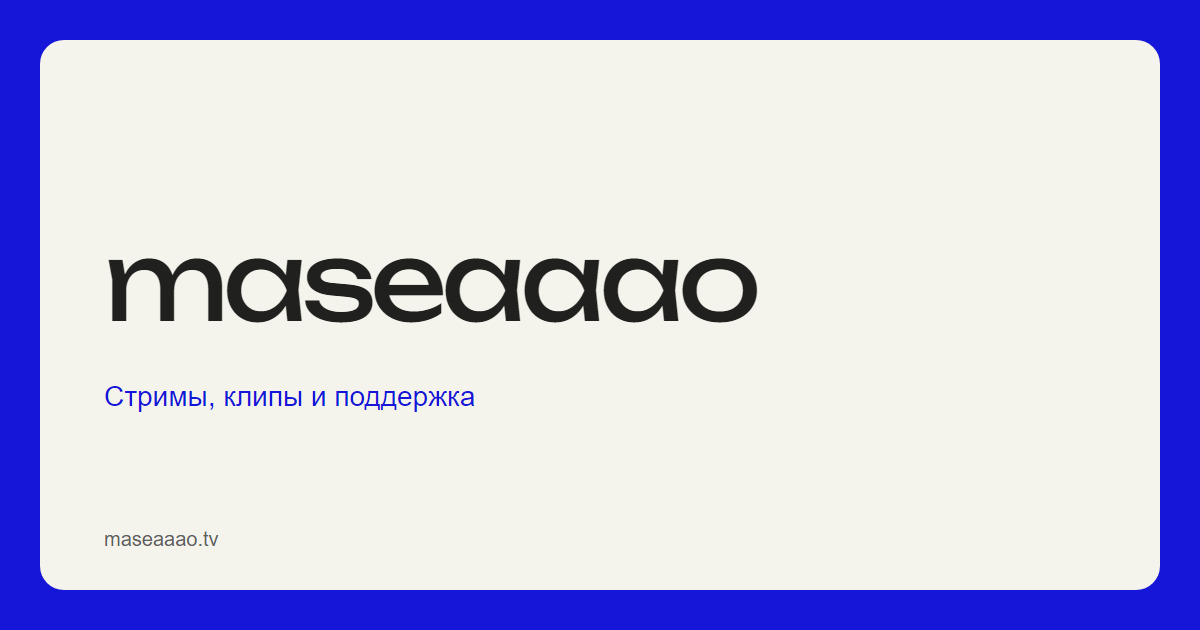
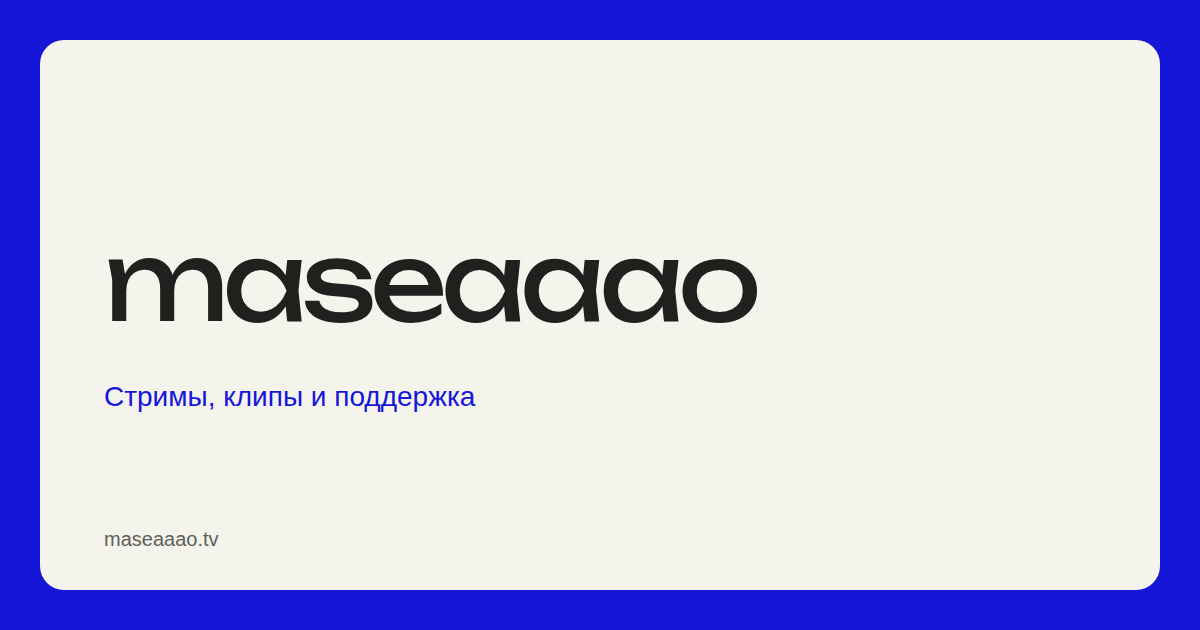
refactor: accept the Linux raster baseline and publish hidden paths
The raster baseline is now rendered by the Linux runner, so the committed
artifacts are re-rendered on Linux. The old hashed bundles are no longer
produced by the build and are removed.

The acceptance tool distinguishes two kinds of absence: a file the canonical
runner reports as missing is dropped from the tree, while a file the artifact
bundle failed to carry stops the acceptance, because dropping it silently would
weaken the byte comparison.

The published baseline now includes the product outputs, the logo renders and
the hidden .well-known directory, so the whole tracked set can be reviewed.

diff --git a/dist/bundles/site-BxtoZOBp.css b/dist/bundles/site-BxtoZOBp.css
@@ -1,0 +1,1 @@
+@font-face{font-family:Unbounded;src:url(/bundles/unbounded-400-CBiYffpS.woff2) format("woff2");font-weight:400;font-style:normal;font-display:swap}:root{color-scheme:light;--color-brand: #1616d9;--color-canvas: var(--color-brand);--color-surface: #f4f3ec;--color-field: #fffef8;--color-text: #20201e;--color-muted: #60605a;--color-border: #d2d1c9;--color-border-control: #83837b;--color-focus: var(--color-brand);--color-action-hover: #1010a9;--color-success: #176548;--color-danger: #a42a36;--color-warning: #815005;--color-accent-soft: #e8e8fc;--space-1: .25rem;--space-2: .5rem;--space-3: .75rem;--space-4: 1rem;--space-5: 1.25rem;--space-6: 1.5rem;--space-8: 2rem;--space-10: 2.5rem;--space-12: 3rem;--space-16: 4rem;--radius-tag: .375rem;--radius-field: .75rem;--radius-surface: 1.5rem;--control-height: 2.75rem;--font-display: "Unbounded", Arial, sans-serif;--font-body: Arial, sans-serif;--motion-press: 90ms;--motion-feedback: .16s;--motion-enter: .24s;--motion-exit: .14s;--motion-scene: .36s;--motion-ease-enter: cubic-bezier(.22, 1, .36, 1);--motion-ease-exit: cubic-bezier(.4, 0, 1, 1);--motion-ease-state: cubic-bezier(.2, 0, 0, 1)}.sr-only{position:absolute;width:1px;height:1px;padding:0;margin:-1px;overflow:hidden;clip-path:inset(50%);white-space:nowrap;border:0}[hidden]{display:none!important}*{box-sizing:border-box}html{min-height:100%}body{margin:0;color:var(--color-text);background:var(--color-canvas);font:16px/1.5 var(--font-body);-webkit-font-smoothing:antialiased;font-synthesis:none}h1,h2,h3{font-family:var(--font-display);font-weight:400}a,button{touch-action:manipulation}a{color:var(--color-brand);text-underline-offset:.2em}a:focus-visible,button:focus-visible,[tabindex="-1"]:focus-visible{outline:3px solid var(--color-brand);outline-offset:4px}.page{min-height:100svh;padding:56px 32px;display:grid;place-items:start center}.shell{width:min(1040px,100%);min-width:0;padding:48px;border-radius:24px;background:var(--color-surface);display:grid;grid-template-columns:minmax(0,1fr);grid-template-areas:"identity" "actions" "collab";gap:32px 40px;align-items:start}.identity{grid-area:identity}.identity__top{display:flex;align-items:center;flex-direction:row-reverse;justify-content:space-between;gap:24px;width:100%}.avatar-shell{display:grid;justify-items:center;flex:none}.avatar-frame{position:relative;width:88px;height:88px;border-radius:50%;background:var(--color-text);overflow:hidden}.avatar,.avatar-fallback{display:block;width:100%;height:100%;object-fit:cover}.avatar{position:relative;z-index:1}.avatar-fallback{position:absolute;inset:0;display:grid;place-items:center;color:var(--color-surface);font:400 40px var(--font-display)}.identity__copy{min-width:0}.identity h1{margin:0;font-size:clamp(32px,6vw,72px);line-height:1.1;letter-spacing:-.055em;overflow-wrap:anywhere}.actions{grid-area:actions;display:grid;grid-template-columns:minmax(0,1fr);min-width:0;gap:28px 40px;align-items:start}.section{min-width:0;display:grid;gap:12px}.collab__label{margin:0;color:var(--color-text);font:400 18px/1.4 var(--font-display);overflow-wrap:anywhere}.tiles{display:grid;gap:10px}.tiles--primary{grid-template-columns:minmax(0,1.4fr) minmax(0,1fr);grid-auto-rows:1fr;gap:var(--space-4)}.tile{min-width:0;min-height:76px;display:grid;grid-template-columns:minmax(0,1fr);align-items:center;gap:16px;padding:18px 20px;border:1px solid var(--color-border);border-radius:12px;color:var(--color-text);background:transparent;text-decoration:none;transition:color var(--motion-feedback),background-color var(--motion-feedback),border-color var(--motion-feedback),transform var(--motion-enter) var(--motion-ease-enter)}.tile__title{font:400 20px/1.35 var(--font-display);overflow-wrap:anywhere}.tile--twitch{min-height:80px;background:var(--color-brand);color:var(--color-surface);border-color:var(--color-brand)}.tile--donationalerts{border-color:var(--color-border-control)}.tiles--secondary{grid-template-columns:repeat(3,minmax(0,1fr));gap:12px}.tiles--secondary .tile{min-height:56px;padding:14px 16px;border-radius:8px}.tiles--secondary .tile__title{font:15px/1.5 var(--font-body)}.collab{grid-area:collab;min-width:0;display:grid;grid-template-columns:minmax(0,1fr);gap:16px;align-items:start;padding-top:28px;border-top:1px solid var(--color-border)}.collab__links{display:grid;grid-template-columns:repeat(2,minmax(0,240px));gap:12px}.collab__link{display:flex;min-width:0;min-height:48px;align-items:center;justify-content:center;padding:12px 16px;border:1px solid var(--color-border-control);border-radius:8px;color:var(--color-text);text-decoration:none;font-size:15px;overflow-wrap:anywhere;transition:color var(--motion-feedback),background-color var(--motion-feedback),border-color var(--motion-feedback),transform var(--motion-enter) var(--motion-ease-enter)}@media(prefers-reduced-motion:no-preference){.shell>.identity,.shell>.actions,.shell>.collab{animation:reading-arrival var(--motion-scene) var(--motion-ease-enter) backwards}.shell>.actions{animation-delay:30ms}.shell>.collab{animation-delay:60ms}.shell:focus-within>*{animation:none}.tile:active,.collab__link:active{transform:translateY(1px);transition-duration:var(--motion-press)}}@keyframes reading-arrival{0%{opacity:.65;transform:translateY(6px)}to{opacity:1;transform:none}}@media(hover:hover){.tile:hover,.collab__link:hover{border-color:var(--color-brand);color:var(--color-brand);background:var(--color-field)}.tile--twitch:hover{background:var(--color-action-hover);border-color:var(--color-brand);color:var(--color-surface)}}.checker{padding:32px;background:var(--color-canvas)}.checker header{display:flex;flex-wrap:wrap;align-items:center;justify-content:space-between;gap:20px;margin-bottom:32px}.checker h1{color:var(--color-surface);margin:0;font-size:clamp(24px,4vw,40px);letter-spacing:-.04em}.checker .global-actions,.checker .actions{display:flex;flex-wrap:wrap;gap:8px}.checker .grid{display:grid;grid-template-columns:repeat(auto-fit,minmax(min(100%,480px),1fr));gap:20px}.checker .card{background:var(--color-surface);min-width:0;overflow:hidden;border:1px solid var(--color-border);border-radius:16px}.checker .card-header{display:flex;flex-wrap:wrap;align-items:center;justify-content:space-between;gap:16px;padding:20px;border-bottom:1px solid var(--color-border)}.checker .title{margin:0;font:400 18px/1.5 var(--font-display)}.checker .status,.checker .note{color:var(--color-muted);font-size:14px}.checker .slot{display:grid;min-height:220px;place-items:center;padding:16px;background:var(--color-field)}.checker .placeholder{color:var(--color-muted);text-align:center}.checker iframe{width:100%;aspect-ratio:16 / 9;display:block;border:0;background:var(--color-text)}.checker.is-tv-mode{height:100dvh;min-height:0;padding:8px;overflow:hidden}.checker.is-tv-mode header,.checker.is-tv-mode .note{display:none}.checker.is-tv-mode .grid{height:calc(100dvh - 16px);grid-template-columns:minmax(0,1fr);grid-template-rows:repeat(2,minmax(0,1fr));gap:8px}.checker.is-tv-mode .card{min-height:0;display:grid;grid-template-rows:auto minmax(0,1fr)}.checker.is-tv-mode .card[data-platform=youtube]{grid-column:1 / -1}.checker.is-tv-mode .card-header{padding:6px 8px}.checker.is-tv-mode .title{font-size:13px}.checker.is-tv-mode .status,.checker.is-tv-mode .actions{display:none}.checker.is-tv-mode .slot{min-height:0;height:100%;padding:4px}.checker.is-tv-mode iframe{height:100%;aspect-ratio:auto}.docs{padding:48px 24px}.docs main{max-width:1040px;margin:0 auto;padding:48px;border-radius:var(--radius-surface);background:var(--color-surface)}.docs h1{font-size:clamp(22px,4vw,36px);line-height:1.4;letter-spacing:-.04em;margin:0 0 16px;overflow-wrap:anywhere}.docs .subtitle{color:var(--color-muted);margin-bottom:40px}.docs section{padding:24px 0;border-top:1px solid var(--color-border)}.docs h2{font-size:17px;margin:0 0 16px}.docs p{margin:0 0 12px;overflow-wrap:anywhere}.docs p:last-child{margin-bottom:0}.docs code{padding:2px 4px;color:var(--color-brand);background:var(--color-accent-soft);font-size:.9em;box-decoration-break:clone}.docs .muted{margin-top:24px;color:var(--color-muted);font-size:14px}.skip-links a{position:fixed;top:12px;left:12px;z-index:10;transform:translateY(-200%);padding:12px 16px;border:2px solid var(--color-brand);border-radius:8px;background:var(--color-surface)}.skip-links a:focus{transform:none}#platform-links,#contacts{scroll-margin-top:24px}@media(width<=1000px){.page{padding:24px 16px}.shell{gap:28px;padding:32px}.actions{grid-template-columns:minmax(0,1fr)}.tiles--secondary{grid-template-columns:repeat(2,minmax(0,1fr))}.collab{grid-template-columns:1fr;gap:16px}.tiles--primary .tile{padding:16px;gap:12px}}@media(width<=540px){.page{padding:12px}.shell{padding:24px 20px;border-radius:18px;gap:24px}.identity__top{flex-direction:column;align-items:start;gap:20px}.avatar-frame{width:64px;height:64px}.identity h1{font-size:clamp(28px,8vw,40px);letter-spacing:-.06em}.tiles--primary{grid-template-columns:1fr}.tile{min-height:72px;padding:16px}.tile__title{font-size:17px}.tiles--secondary .tile__title{font-size:15px}.tiles--secondary .tile--lobby,.tiles--secondary .tile--archives{grid-column:1 / -1}.collab__links{grid-template-columns:1fr;gap:12px}.checker{padding:20px 12px}.checker .card-header{padding:16px}.docs{padding:12px}.docs main{padding:24px 20px;border-radius:18px}}@media(prefers-reduced-motion:reduce){*,*:before,*:after{transition:none!important;animation:none!important;scroll-behavior:auto!important}}@media(forced-colors:active){.tile,.collab__link{border:1px solid ButtonText}a:focus-visible{outline-color:Highlight}}.docs .tool-link{display:inline-flex;align-items:center;min-width:44px;min-height:44px;max-width:100%;overflow-wrap:anywhere}.app-button[data-v-c18e0edb]{display:inline-flex;box-sizing:border-box;cursor:pointer;align-items:center;justify-content:center;gap:var(--space-2);min-height:var(--control-height);min-width:var(--control-height);padding:var(--space-3) var(--space-4);border:1px solid var(--color-border-control);border-radius:var(--radius-field);background:transparent;color:var(--color-text);font:400 16px/1.4 Unbounded,Arial,sans-serif;text-decoration:none;max-width:100%;text-align:center;overflow-wrap:anywhere;transition:color var(--motion-feedback, .16s),background-color var(--motion-feedback, .16s),border-color var(--motion-feedback, .16s),transform var(--motion-enter, .24s) var(--motion-ease-enter, ease-out)}.app-button__label[data-v-c18e0edb]{min-width:0}.app-button--primary[data-v-c18e0edb]{background:var(--color-brand);border-color:var(--color-brand);color:var(--color-surface)}.app-button--icon[data-v-c18e0edb]{padding:0;border-radius:var(--radius-tag)}.app-button--loading[data-v-c18e0edb]{cursor:progress}.app-button[data-v-c18e0edb]:disabled,.app-button[aria-disabled=true][data-v-c18e0edb]{cursor:not-allowed;opacity:.7}@media(hover:hover){.app-button[data-v-c18e0edb]:hover:not(:disabled,[aria-disabled=true]){color:var(--color-brand);border-color:var(--color-brand);background:var(--color-accent-soft)}.app-button--primary[data-v-c18e0edb]:hover:not(:disabled,[aria-disabled=true]){color:var(--color-surface);background:var(--color-action-hover);border-color:var(--color-action-hover)}}.app-button[data-v-c18e0edb]:focus-visible{outline:3px solid var(--color-focus);outline-offset:4px}.app-button--inverted[data-v-c18e0edb]{color:var(--color-surface);border-color:var(--color-surface)}.app-button--inverted[data-v-c18e0edb]:focus-visible{outline-color:var(--color-surface)}.app-button--press[data-v-c18e0edb]:active:not(:disabled,[aria-disabled=true]){transform:translateY(1px);transition-duration:var(--motion-press, 90ms)}@media(prefers-reduced-motion:reduce){.app-button[data-v-c18e0edb]{transition:none}.app-button--press[data-v-c18e0edb]:active:not(:disabled,[aria-disabled=true]){transform:none}}

diff --git a/dist/check.html b/dist/check.html
@@ -9,12 +9,12 @@
     <meta name="theme-color" content="#f4f3ec" />
     <link rel="icon" href="favicon.ico?v=rounded-1" />
 
-    <script type="module" crossorigin src="/bundles/check.html-Difs7IvX.js"></script>
-    <link rel="stylesheet" crossorigin href="/bundles/site-DQN-sndQ.css">
+    <script type="module" crossorigin src="/bundles/check.html-C4sZ6Gpz.js"></script>
+    <link rel="stylesheet" crossorigin href="/bundles/site-BxtoZOBp.css">
     <link rel="preload" href="/bundles/unbounded-400-CBiYffpS.woff2" as="font" type="font/woff2" crossorigin="anonymous">
   </head>
 
   <body class="checker">
-    <!--[--><header><h1>Stream Checker</h1><div class="global-actions"><button class="app-button app-button--secondary app-button--inverted app-button--press" type="button" data-action="add-all" data-v-a1e1d40c><!----><span class="app-button__label" data-v-a1e1d40c><!--[-->Добавить все<!--]--></span></button><button class="app-button app-button--secondary app-button--inverted app-button--press" type="button" data-action="remove-all" data-kind="remove" data-v-a1e1d40c><!----><span class="app-button__label" data-v-a1e1d40c><!--[-->Удалить все<!--]--></span></button></div></header><main class="grid"><section class="card" data-platform="youtube"><div class="card-header"><div><h2 class="title">YouTube</h2><div class="status" role="status" data-status>iframe не создан</div></div><div class="actions"><button class="app-button app-button--secondary app-button--press" type="button" data-action="add" data-v-a1e1d40c><!----><span class="app-button__label" data-v-a1e1d40c><!--[-->Добавить<!--]--></span></button><button class="app-button app-button--secondary app-button--press" type="button" data-action="remove" data-kind="remove" data-v-a1e1d40c><!----><span class="app-button__label" data-v-a1e1d40c><!--[-->Удалить<!--]--></span></button><a class="app-button app-button--secondary app-button--press button" href="https://www.youtube.com/channel/UCyJNPWpOcPfMo5csKa27yGg/live" target="_blank" rel="noreferrer" data-v-a1e1d40c><!----><span class="app-button__label" data-v-a1e1d40c><!--[-->Открыть<!--]--></span></a></div></div><div class="slot" data-slot><div class="placeholder">YouTube-плеер не загружен</div></div></section><section class="card" data-platform="twitch"><div class="card-header"><div><h2 class="title">Twitch</h2><div class="status" role="status" data-status>iframe не создан</div></div><div class="actions"><button class="app-button app-button--secondary app-button--press" type="button" data-action="add" data-v-a1e1d40c><!----><span class="app-button__label" data-v-a1e1d40c><!--[-->Добавить<!--]--></span></button><button class="app-button app-button--secondary app-button--press" type="button" data-action="remove" data-kind="remove" data-v-a1e1d40c><!----><span class="app-button__label" data-v-a1e1d40c><!--[-->Удалить<!--]--></span></button><a class="app-button app-button--secondary app-button--press button" href="https://www.twitch.tv/maseaaao" target="_blank" rel="noreferrer" data-v-a1e1d40c><!----><span class="app-button__label" data-v-a1e1d40c><!--[-->Открыть<!--]--></span></a></div></div><div class="slot" data-slot><div class="placeholder">Twitch-плеер не загружен</div></div></section></main><!--]-->
+    <!--[--><header><h1>Stream Checker</h1><div class="global-actions"><button class="app-button app-button--secondary app-button--inverted app-button--press" type="button" data-action="add-all" data-v-c18e0edb><!----><span class="app-button__label" data-v-c18e0edb><!--[-->Добавить все<!--]--></span></button><button class="app-button app-button--secondary app-button--inverted app-button--press" type="button" data-action="remove-all" data-kind="remove" data-v-c18e0edb><!----><span class="app-button__label" data-v-c18e0edb><!--[-->Удалить все<!--]--></span></button></div></header><main class="grid"><section class="card" data-platform="youtube"><div class="card-header"><div><h2 class="title">YouTube</h2><div class="status" role="status" data-status>iframe не создан</div></div><div class="actions"><button class="app-button app-button--secondary app-button--press" type="button" data-action="add" data-v-c18e0edb><!----><span class="app-button__label" data-v-c18e0edb><!--[-->Добавить<!--]--></span></button><button class="app-button app-button--secondary app-button--press" type="button" data-action="remove" data-kind="remove" data-v-c18e0edb><!----><span class="app-button__label" data-v-c18e0edb><!--[-->Удалить<!--]--></span></button><a class="app-button app-button--secondary app-button--press button" href="https://www.youtube.com/channel/UCyJNPWpOcPfMo5csKa27yGg/live" target="_blank" rel="noreferrer" data-v-c18e0edb><!----><span class="app-button__label" data-v-c18e0edb><!--[-->Открыть<!--]--></span></a></div></div><div class="slot" data-slot><div class="placeholder">YouTube-плеер не загружен</div></div></section><section class="card" data-platform="twitch"><div class="card-header"><div><h2 class="title">Twitch</h2><div class="status" role="status" data-status>iframe не создан</div></div><div class="actions"><button class="app-button app-button--secondary app-button--press" type="button" data-action="add" data-v-c18e0edb><!----><span class="app-button__label" data-v-c18e0edb><!--[-->Добавить<!--]--></span></button><button class="app-button app-button--secondary app-button--press" type="button" data-action="remove" data-kind="remove" data-v-c18e0edb><!----><span class="app-button__label" data-v-c18e0edb><!--[-->Удалить<!--]--></span></button><a class="app-button app-button--secondary app-button--press button" href="https://www.twitch.tv/maseaaao" target="_blank" rel="noreferrer" data-v-c18e0edb><!----><span class="app-button__label" data-v-c18e0edb><!--[-->Открыть<!--]--></span></a></div></div><div class="slot" data-slot><div class="placeholder">Twitch-плеер не загружен</div></div></section></main><!--]-->
   </body>
 </html>

diff --git a/dist/tools/index.html b/dist/tools/index.html
@@ -6,7 +6,7 @@
       content="width=device-width,initial-scale=1"
     /><meta name="color-scheme" content="light" /><title>Инструменты — maseaaao.tv</title
     ><link rel="canonical" href="https://maseaaao.tv/tools/index.html" /></head
-  ><link rel="stylesheet" crossorigin href="/bundles/site-DQN-sndQ.css">
+  ><link rel="stylesheet" crossorigin href="/bundles/site-BxtoZOBp.css">
 
 <link rel="preload" href="/bundles/unbounded-400-CBiYffpS.woff2" as="font" type="font/woff2" crossorigin="anonymous">
 

diff --git a/apps/obs-widgets/dist/streamlabs-chat/chat-box.css b/apps/obs-widgets/dist/streamlabs-chat/chat-box.css
@@ -108,9 +108,11 @@ OTHER DEALINGS IN THE FONT SOFTWARE.
   --color-text: #20201e;
   --color-muted: #60605a;
   --color-border: #d2d1c9;
+
   /* Purpose, not platform imitation: immediate response, quiet settling. */
   --motion-ease-enter: cubic-bezier(0.22, 1, 0.36, 1);
 }
+
 /* Streamlabs owns message delivery, deletion and the configured hide delay.
    Keep {font_size} / {message_hide_delay} substitution in Streamlabs.
    The canvas is transparent; messages carry their own readable surfaces. */

diff --git a/dist/docs.html b/dist/docs.html
@@ -15,7 +15,7 @@
     <link rel="icon" type="image/x-icon" href="favicon.ico?v=rounded-1" />
     <link rel="icon" type="image/png" sizes="32x32" href="favicon-32x32.png?v=rounded-1" />
 
-    <link rel="stylesheet" crossorigin href="/bundles/site-DQN-sndQ.css">
+    <link rel="stylesheet" crossorigin href="/bundles/site-BxtoZOBp.css">
     <link rel="preload" href="/bundles/unbounded-400-CBiYffpS.woff2" as="font" type="font/woff2" crossorigin="anonymous">
   </head>
   <body class="docs">

diff --git a/apps/obs-widgets/dist/streamlabs-chat/donationalerts-alerts.css b/apps/obs-widgets/dist/streamlabs-chat/donationalerts-alerts.css
@@ -109,8 +109,10 @@ OTHER DEALINGS IN THE FONT SOFTWARE.
   --color-muted: #60605a;
   --color-border: #d2d1c9;
   --radius-field: 0.75rem;
+
   /* Purpose, not platform imitation: immediate response, quiet settling. */
 }
+
 /* Warm-light theme · DonationAlerts · no event/animation overrides.
    Remote-safe embedded fonts; provider owns visibility and alert duration. */
 :root {

diff --git a/dist/tools/stream-info.html b/dist/tools/stream-info.html
@@ -9,7 +9,7 @@
       rel="canonical"
       href="https://maseaaao.tv/tools/stream-info.html"
     /></head
-  ><link rel="stylesheet" crossorigin href="/bundles/site-DQN-sndQ.css">
+  ><link rel="stylesheet" crossorigin href="/bundles/site-BxtoZOBp.css">
 
 <link rel="preload" href="/bundles/unbounded-400-CBiYffpS.woff2" as="font" type="font/woff2" crossorigin="anonymous">
 

diff --git a/dist/tools/tuna-widget.html b/dist/tools/tuna-widget.html
@@ -9,7 +9,7 @@
       rel="canonical"
       href="https://maseaaao.tv/tools/tuna-widget.html"
     /></head
-  ><link rel="stylesheet" crossorigin href="/bundles/site-DQN-sndQ.css">
+  ><link rel="stylesheet" crossorigin href="/bundles/site-BxtoZOBp.css">
 
 <link rel="preload" href="/bundles/unbounded-400-CBiYffpS.woff2" as="font" type="font/woff2" crossorigin="anonymous">
 

diff --git a/apps/obs-widgets/dist/donors/donationalerts-stream-stats.css b/apps/obs-widgets/dist/donors/donationalerts-stream-stats.css
@@ -110,8 +110,10 @@ OTHER DEALINGS IN THE FONT SOFTWARE.
   --color-border: #d2d1c9;
   --radius-field: 0.75rem;
   --radius-surface: 1.5rem;
+
   /* Purpose, not platform imitation: immediate response, quiet settling. */
 }
+
 /* Blue / warm light · DonationAlerts stream stats / donors.
    Provider owns data and rotation; text rolls inside a stationary panel. */
 :root {

diff --git a/dist/index.html b/dist/index.html
@@ -76,7 +76,7 @@
         }
       }
     </script>
-    <link rel="stylesheet" crossorigin href="/bundles/site-DQN-sndQ.css">
+    <link rel="stylesheet" crossorigin href="/bundles/site-BxtoZOBp.css">
     <link rel="preload" href="/bundles/unbounded-400-CBiYffpS.woff2" as="font" type="font/woff2" crossorigin="anonymous">
   </head>
 

diff --git a/docs/pnpm-migration.md b/docs/pnpm-migration.md
@@ -85,17 +85,30 @@
 - `pnpm run` на Windows не находит скрипт по относительному пути `../../tooling/...`: pnpm выполняет его через shim, где `node` доступен, а относительный путь разрешается иначе. Форма `node ../../tooling/source-task.mjs` проверена во всех 11 пакетах.
 - Перенос `raster` на Linux инвалидирует закоммиченный Windows-эталон. Принятие нового эталона сделано штатной операцией: `tooling/accept-artifacts.mjs` сначала находит все отслеживаемые файлы и только потом перезаписывает их, поэтому неполный набор не оставляет дерево наполовину обновлённым. Мутация теста подтверждает, что регрессия «копировать по ходу» отлавливается.
 
+## Первый прогон на Linux и независимое ревью
+
+Первый прогон нового контура на реальном runner'е (`ubuntu-latest`) подтвердил перенос: `plan`, `source`, `products` и `companion` зелёные. `raster` упал ровно на `check:artifacts`: закоммиченный эталон отрендерен Windows-Chromium, а Linux-рендер отличается байтами. Это и есть причина, по которой эталон привязан к канонической ОС, и штатная процедура его пересчёта.
+
+Ревью (независимое, с эмпирической проверкой каждой гипотезы) нашло и подтвердило три настоящих дефекта, все исправлены:
+
+- Standalone-продукты перестали сверяться побайтово: `check:artifacts` остался только в job'е `raster`, который собирает лишь сайт и artwork-рендеры. Проверка возвращена в job `products`, так что каждый отслеживаемый артефакт сравнивается в каком-то job'е.
+- Опубликованные текстовые файлы (`_headers`, `sitemap.xml`, `.well-known/api-catalog`) не имели фиксированного окончания строки. `* text=auto` в `.gitattributes` даёт CRLF в Windows-checkout и LF в Linux-checkout, поэтому побайтовое сравнение не могло сойтись на обеих ОС. Для этих файлов закреплён `eol=lf`.
+- `accept-artifacts.mjs` без аргумента сообщал об успехе и ничего не менял вместо отказа. Теперь отсутствие аргумента — ошибка.
+
+Также исправлено: job `raster` публиковал не все отслеживаемые артефакты (23 файла отсутствовали в бандле), поэтому неполный набор нельзя было принять; публикуемые пути дополнены, а контрактный тест требует их полноты.
+
 ## Ограничения
 
-- GitHub Actions для этой ветки не запускались. Все замеры локальные; поведение runner'а `ubuntu-latest` не подтверждено.
 - Полный `pnpm run verify:ui-renewal` локально не выполнялся: он требует полного растрового рендера всех 12 сцен и обоев 4K.
-- C#-тесты Stream Info и упаковка Companion в этом прогоне не выполнялись (нужен полный CI-контур).
 - Bun не оценивался: сравнение требовало бы отдельного прогона в неизменённом toolchain, а выигрыш от смены пакета не доказан.
 - `engineStrict: true` требует закреплённого Node: pnpm запускается тем Node, что стоит в PATH. Локально это Node 22.23.3 из `.node-version`; в CI `actions/setup-node` ставит его до `pnpm install`.
-- Локальная машина — Windows, поэтому Linux-прогон CI и Linux-рендер растров не проверялись фактически; выводы о переносимости основаны на разборе кода и контрактов, а не на запуске под Linux.
+- Локальная машина — Windows. Linux-проверено через CI: `plan`, `source`, `products` и `companion` зелёные на `ubuntu-latest` и `windows-2025`. Локально остаются непроверенными Linux-рендер растров и Linux-поведение `sharp`/libvips.
+- Растровый эталон в коммите остаётся Windows-ным: job `raster` на Linux падает на `check:artifacts`, пока эталон не пересчитан на канонической ОС. Это ожидаемое поведение, а не дефект, но до пересчёта агрегатный контур красный.
 
 ## Что проверено и что нет
 
 Проверено в этом прогоне: чистая установка по `--frozen-lockfile`; `check:source`; сборки всех продуктов; Storybook 62/62; UI-проба; статические фикстуры; `test:checks`; `check:repository`; `check:artifacts` (побайтовое сравнение 86 отслеживаемых артефактов); кеш Turbo (hit, восстановление удалённых выходов, инвалидация при изменении исходника); отбор затронутых пакетов на 12 сценариях изменений; передача аргументов скриптам через pnpm; согласованность `pnpm-lock.yaml` с `package.json` во всех 13 импортёрах.
 
-Не проверено: запуск GitHub Actions; побайтовый рендер всех сцен и обоев; C#-тесты; упаковка Companion; поведение `affected`-плана на реальном PR.
+Проверено в CI на реальном runner'е: `plan`, `source`, `products` (4 мин 21 с на `ubuntu-latest`) и `companion` (`windows-2025`) — зелёные; `raster` доходит до побайтового сравнения и падает на Windows-эталоне, публикуя перерисованный Linux-эталон.
+
+Не проверено: приём пересчитанного Linux-эталона (требует прогона `raster` и ручного принятия артефакта); C#-тесты Stream Info локально; поведение `sharp` на Linux.
